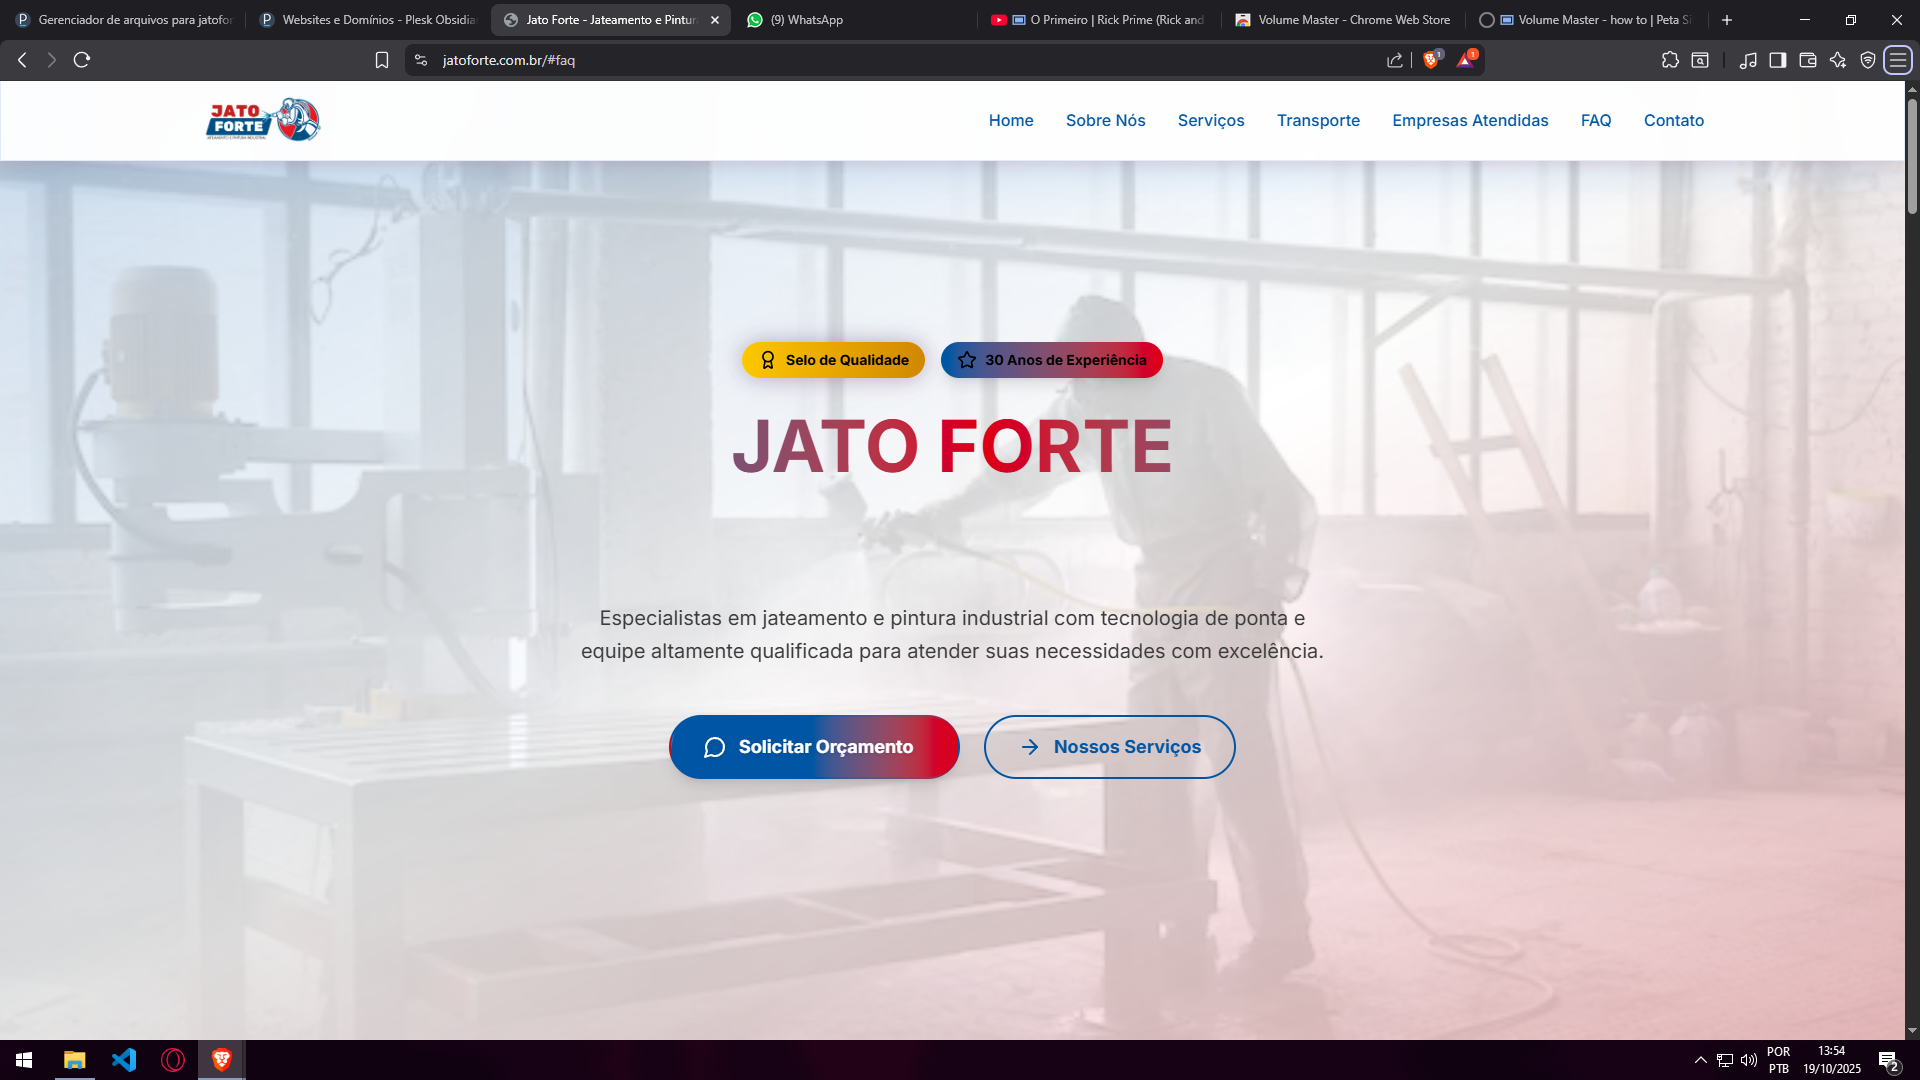
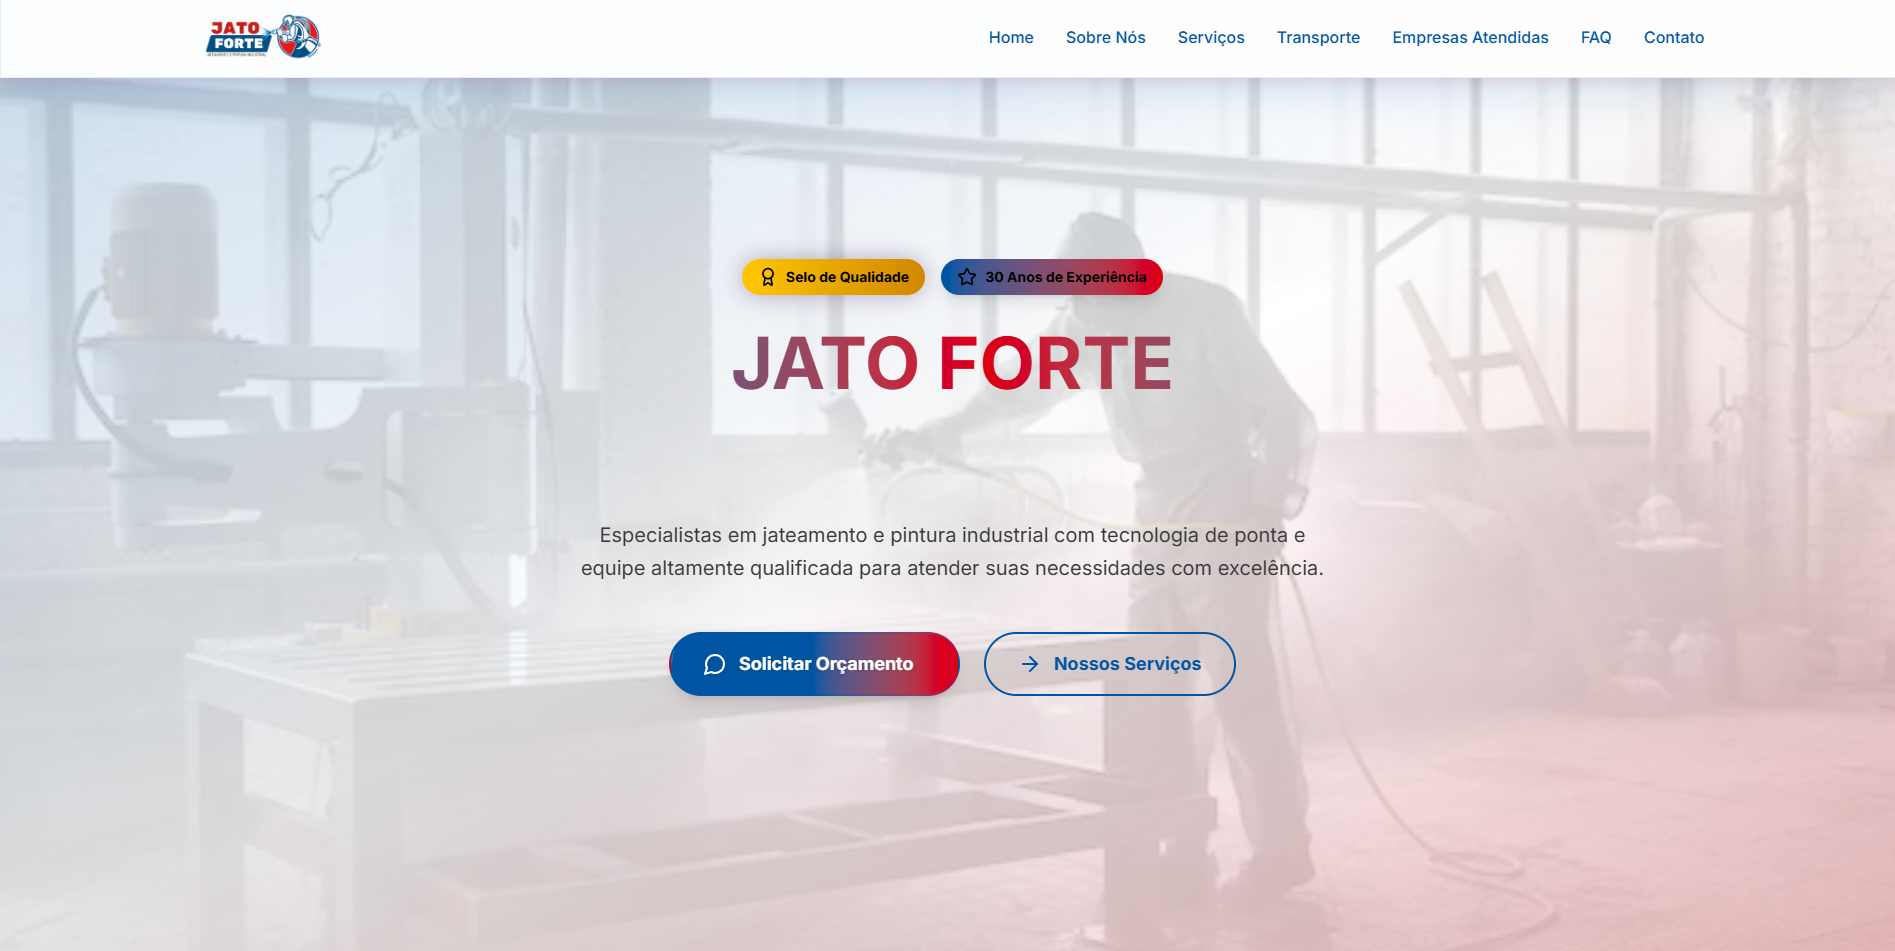
as

diff --git a/index.html b/index.html
@@ -5,6 +5,7 @@
     <meta charset="UTF-8">
     <meta name="viewport" content="width=device-width, initial-scale=1.0">
     <link rel="stylesheet" href="style.css">
+    <meta name="google-adsense-account" content="ca-pub-5084970930601529">
     <link rel="icon" href="images/d375d9b2dad54cf6bb1fca72d64330d3-free-removebg-preview.png">
     <title>VirugoDev</title>
 </head>
@@ -309,7 +310,7 @@
 
 
 
-                <a href="https://yungvirugo.github.io/ordem-rep/">
+                <a href="https://jatoforte.com.br">
                     <div class="square-mold" id="pj-4">
                         <div class="bar">
                             <p class="bar-t">Veja o Projeto</p>

diff --git a/style.css b/style.css
@@ -507,7 +507,7 @@ header {
 }
 
 #pj-4 {
-    background: url('images/ordem.png');
+    background: url('images/jatoforte.png');
     background-position: center;
     background-repeat: no-repeat;
     background-size: cover;
